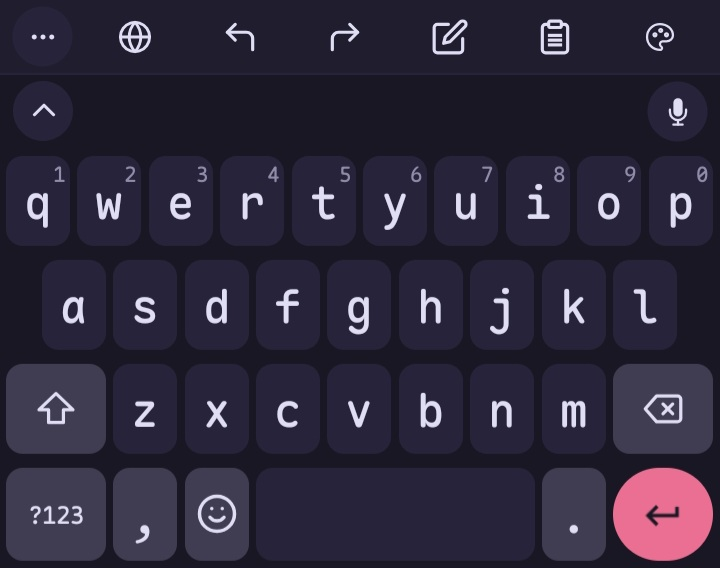
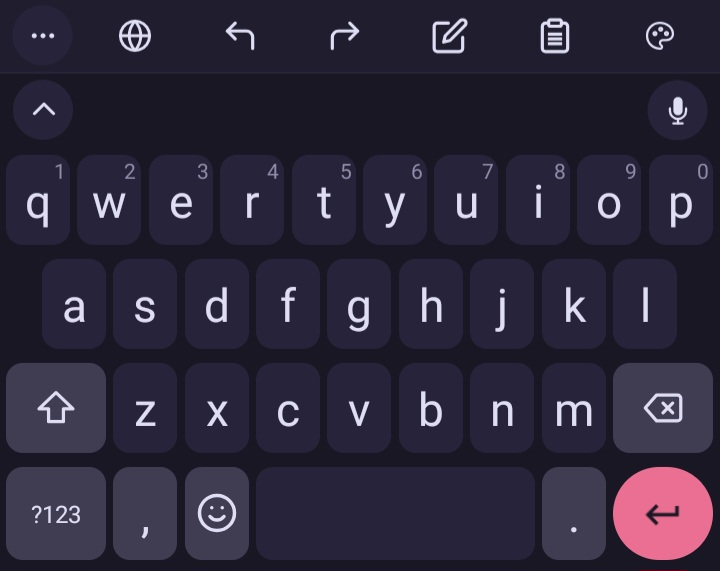
add bloom template

diff --git a/README.md b/README.md
@@ -5,12 +5,15 @@
 
 <p align="center">All natural pine, faux fur and a bit of soho vibes for the classy minimalist</p>
 
-### Usage
-1. Download the `*.zip` from the [releases](https://github.com/gatinSy/rose-pine-futo/releases)
-2. Open **FUTO Keyboard**
-3. Scroll down to **Themes**
-4. Tap the plus icon and import the `*.zip`
-5. Select the imported theme from the list
+## Usage
+
+1. Download the `.txt` for your preferred variant from the [`dist`](https://github.com/gatinSy/rose-pine-futo/tree/main/dist) folder
+2. Rename the file to `theme.txt`
+3. Compress `theme.txt` into a `.zip` file
+4. Open **FUTO Keyboard**
+5. Scroll down to **Themes**
+6. Tap the plus icon and import the `.zip`
+7. Select the imported theme from the list
 
 ## Gallery
 
@@ -29,3 +32,12 @@
 ## Thanks to
 
 - [Gatin](https://github.com/gatinSy)
+
+## Contributing
+<!-- BLOOM_BUILD_START -->
+This theme was built using [bloom](https://github.com/rose-pine/rose-pine-bloom):
+
+```sh
+bloom build template.txt --output dist --prefix $ --format hex
+```
+<!-- BLOOM_BUILD_END -->
